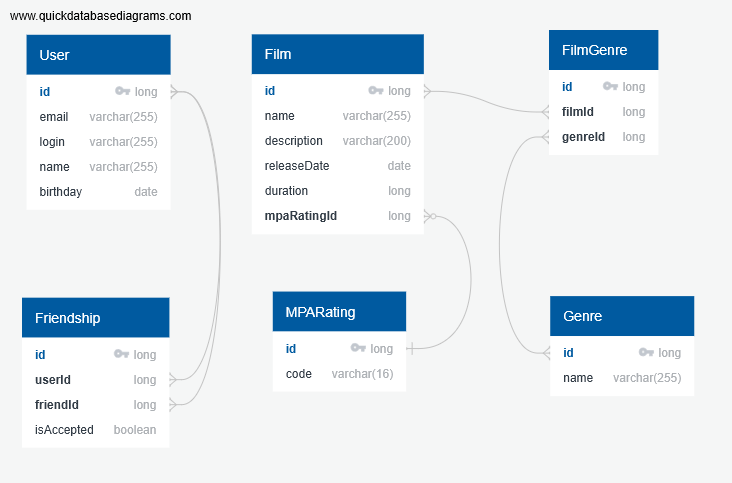
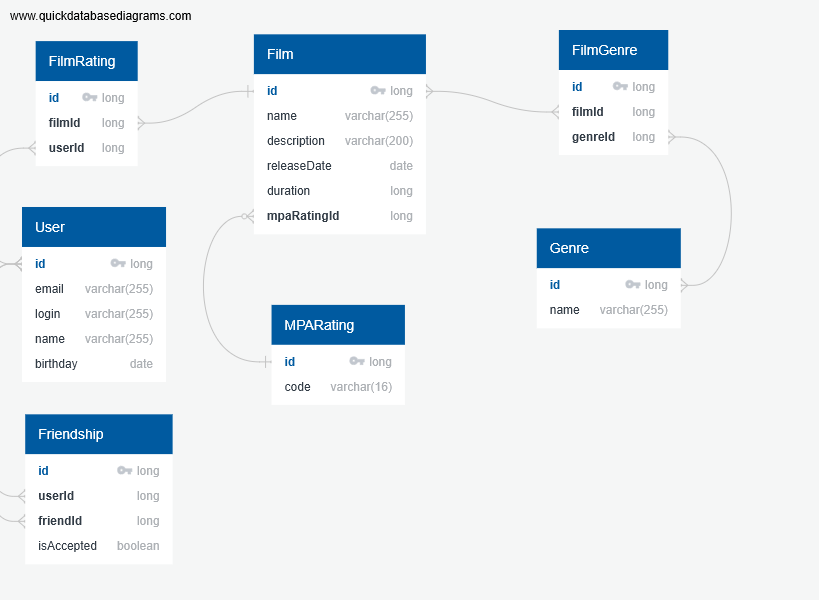
Спринт 12 Задание SQL
Исправление ER-Диаграммы и README.md

diff --git a/README.md b/README.md
@@ -1,2 +1,31 @@
 # java-filmorate
-Template repository for Filmorate project.
+## Сущлности базы данных
+### ER-диаграмма
+![ER-диаграмма](src/main/resources/DB/Sprint11_ER_diagram.png)
+### Выборка всех клиентов
+```
+select *
+from
+    user
+```
+### Выборка всех фильмов
+```
+select *
+from
+    film
+```
+### Выборка n самых популярных фильмов по рейтингу
+```
+select *
+from
+    film f
+where
+    f.id in (select fr.filmId
+             from 
+                    FilmRating fr
+             group by 
+                    fr.filmId
+             order by
+                    count(fr.filmId)
+             limit n)
+```
